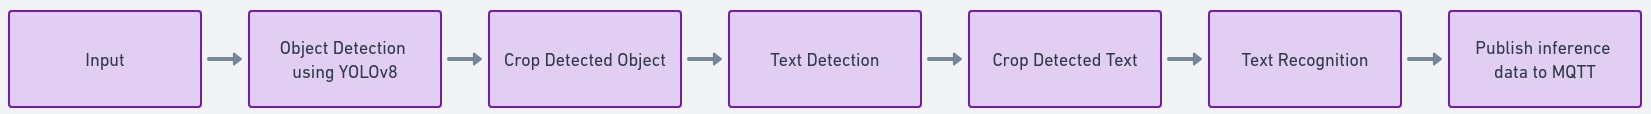
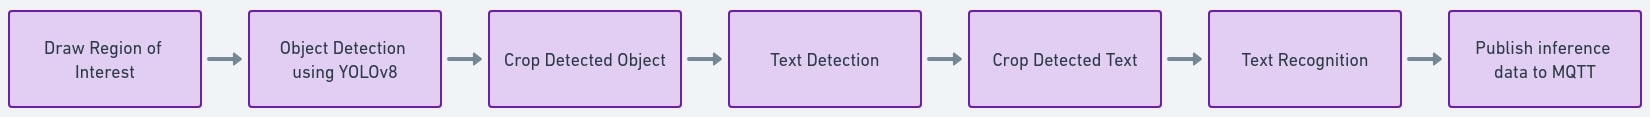
replaced gif and diagram

diff --git a/notebooks/README.md b/notebooks/README.md
@@ -9,7 +9,7 @@ The tutorial consists of the following steps:
 - Perform object detection using yolov8, text detection and recognition. 
 - Live demo
 
-![automated checkout](automated-gif.gif)
+![automated checkout](automated.gif)
 
 ## Flow diagram
 
